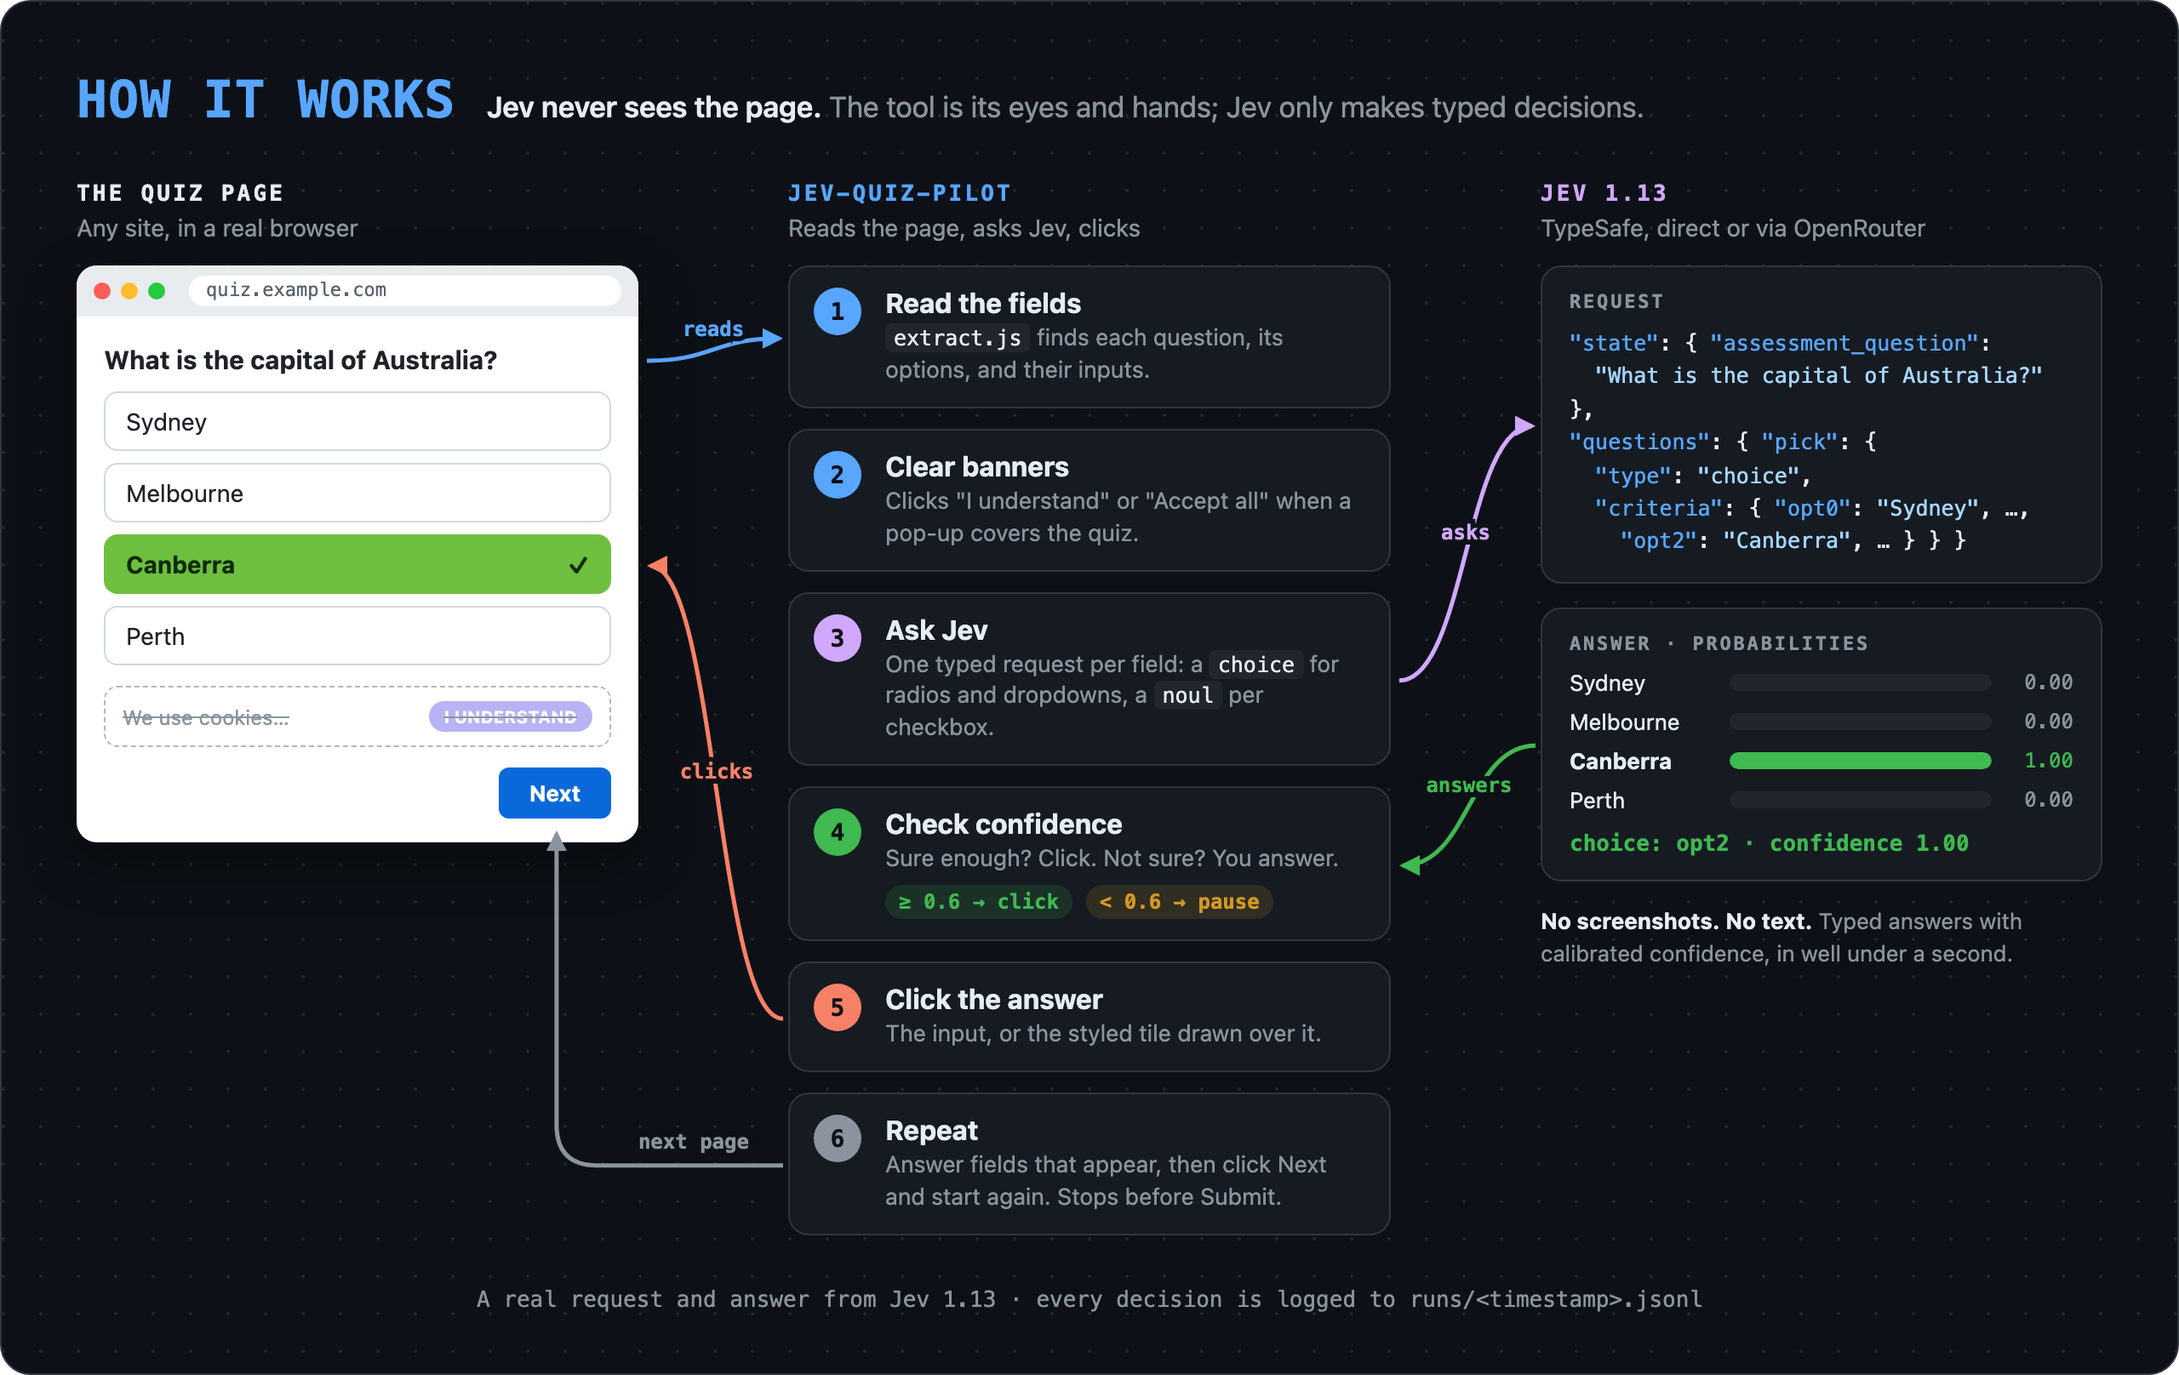
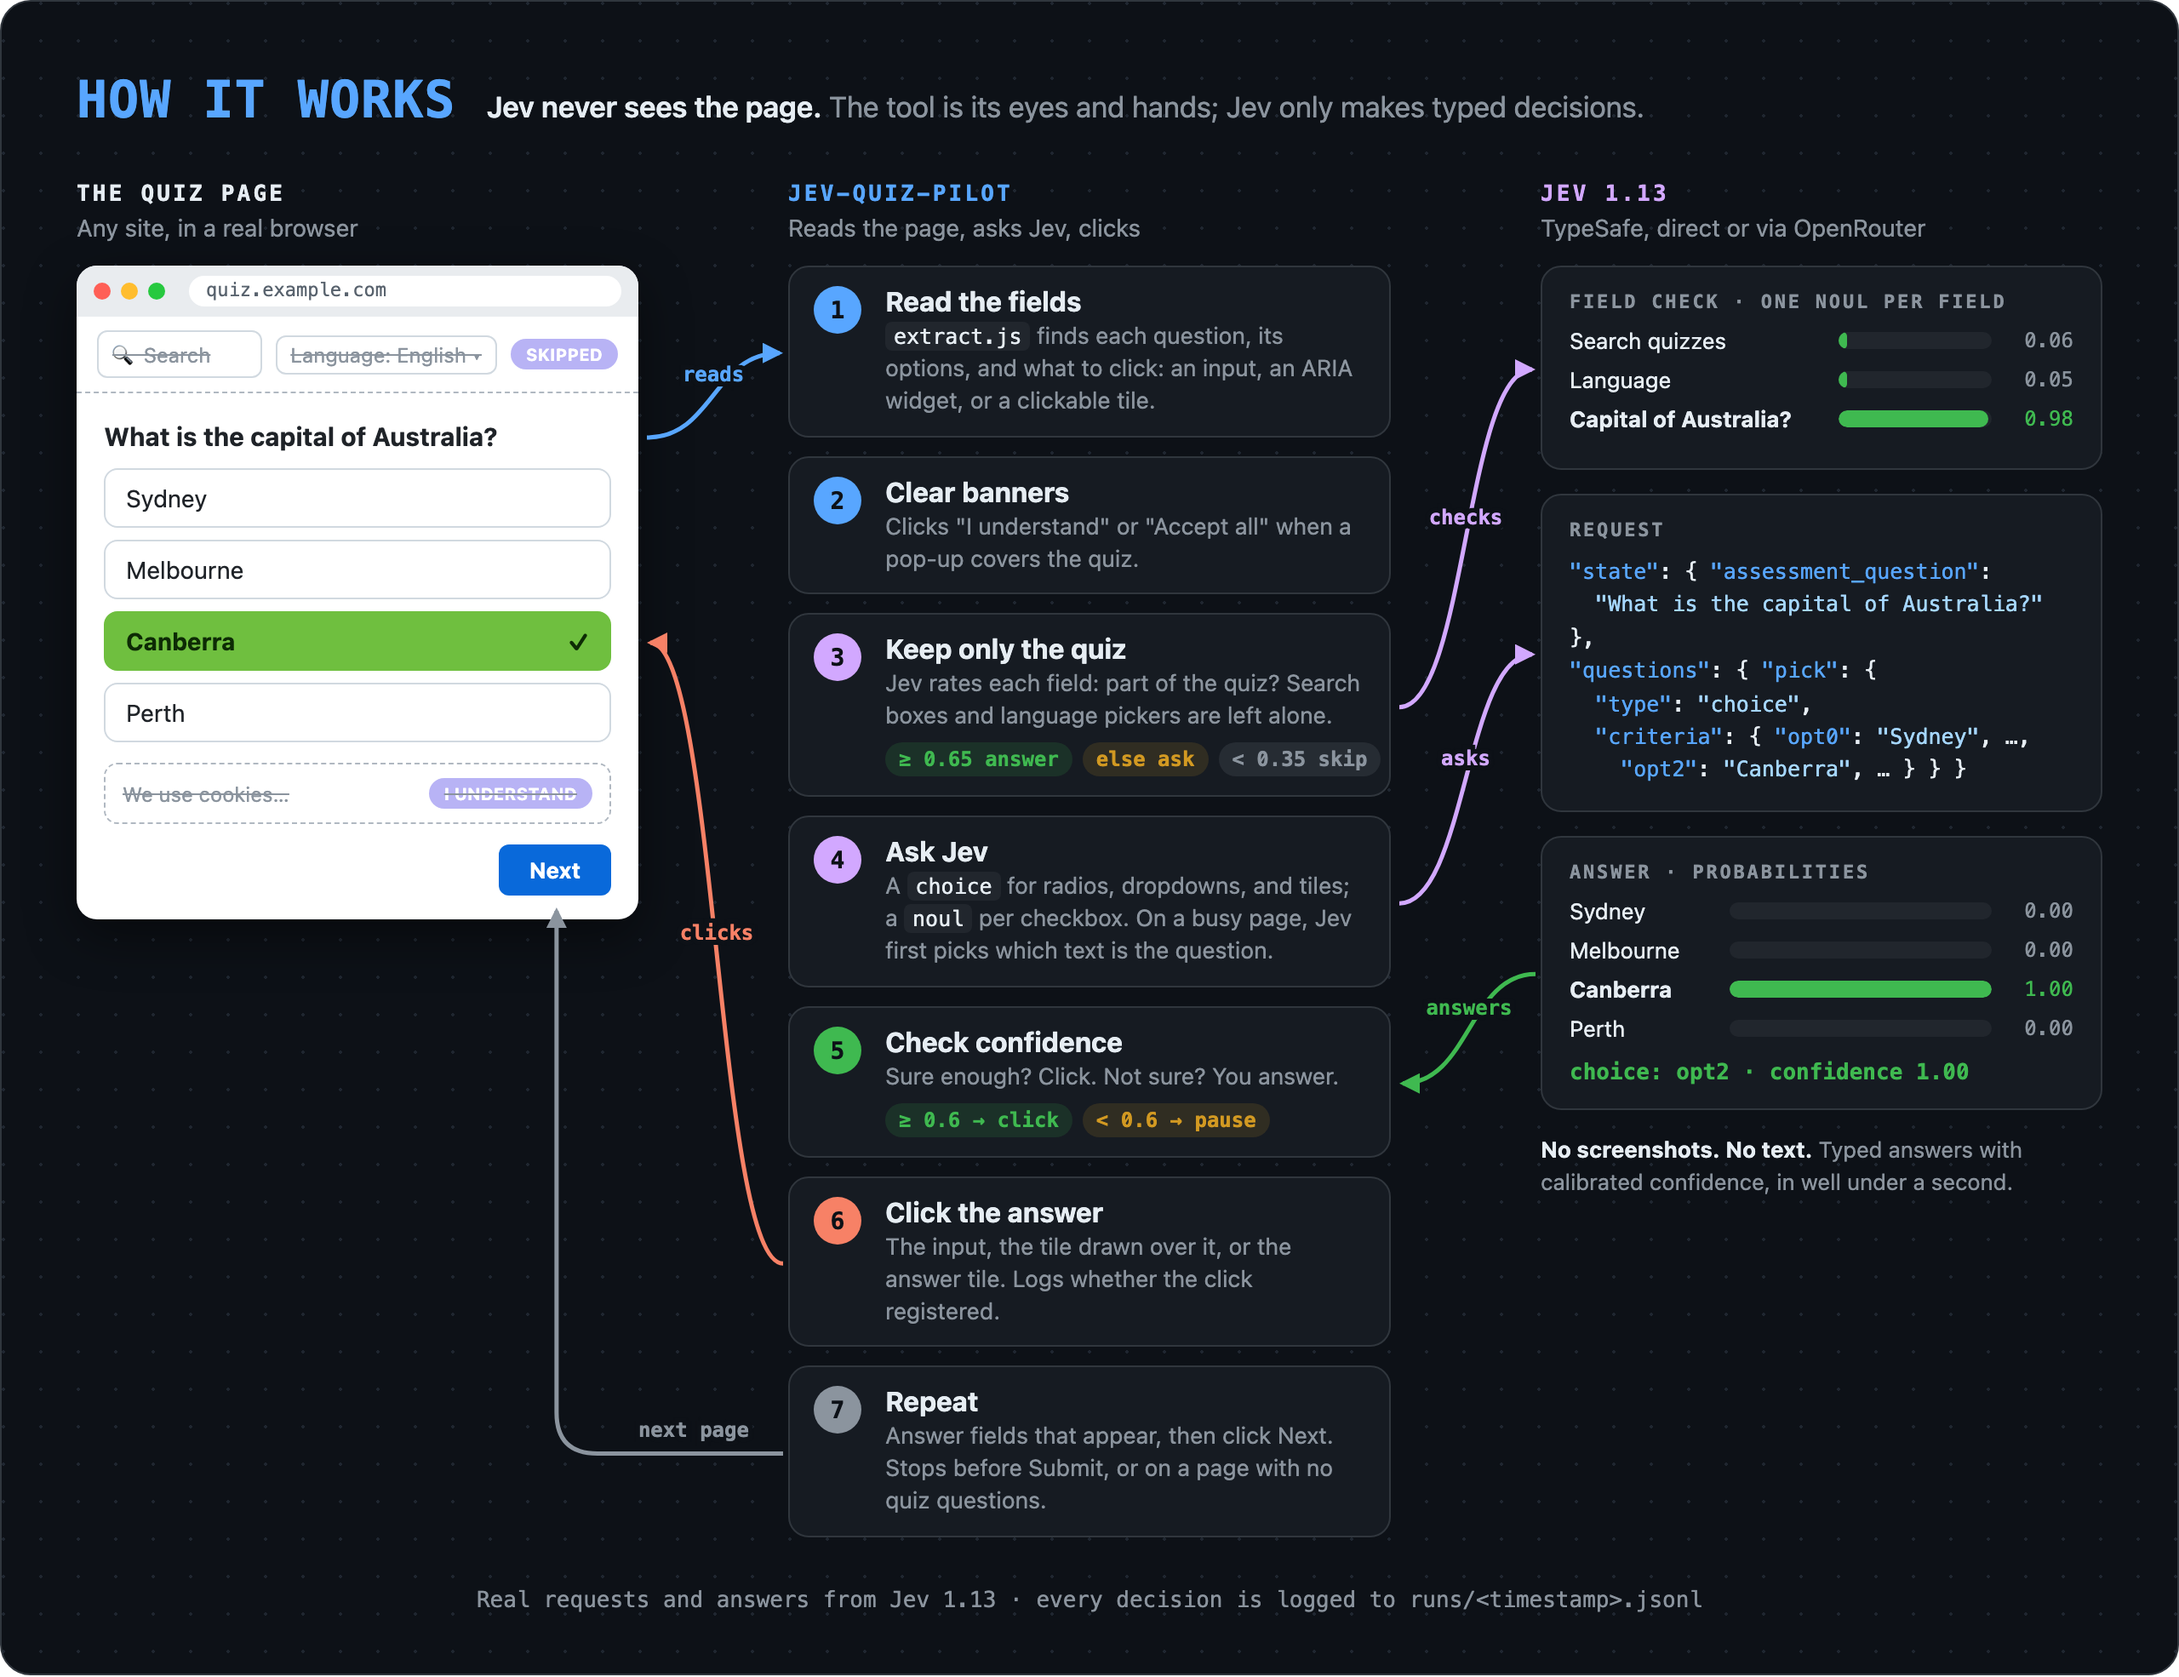
Show Jev's field check in the How it works diagram
Adds step 3, Keep only the quiz, with real scores from Jev 1.13: a site
search box 0.06, a language picker 0.05, the quiz question 0.98. Step 1
names ARIA widgets and answer tiles, step 6 the registered-click check,
and step 7 the stop on pages with no quiz questions.

diff --git a/docs/how-it-works.html b/docs/how-it-works.html
@@ -21,7 +21,7 @@
   header p { margin:0; color:var(--muted); font-size:17px; }
   header b { color:var(--text); font-weight:600; }
 
-  .cols { display:grid; grid-template-columns: 330px 1fr 330px; gap:88px; align-items:start; position:relative; z-index:1; }
+  .cols { display:grid; grid-template-columns: 330px minmax(0, 1fr) 330px; gap:88px; align-items:start; position:relative; z-index:1; }
   .col-title { font:700 13px var(--mono); letter-spacing:1.6px; text-transform:uppercase; margin:0 0 4px; }
   .col-sub { color:var(--muted); font-size:14px; margin:0 0 14px; }
 
@@ -36,20 +36,25 @@
   .opt.pick { background:#6fbf3f; border-color:#6fbf3f; color:#0d2b05; font-weight:700; }
   .banner { margin-top:12px; border:1px dashed #b0b8c1; border-radius:8px; padding:8px 10px; font-size:12px; color:#8b949e; display:flex; justify-content:space-between; align-items:center; text-decoration:line-through; }
   .banner span { background:#b8b3f5; color:#fff; border-radius:12px; padding:3px 9px; font-weight:700; font-size:10px; text-decoration:none; }
+  .sitebar { display:flex; gap:8px; align-items:center; padding:8px 12px; border-bottom:1px dashed #b0b8c1; font-size:12px; color:#8b949e; }
+  .sitebar .ctl { border:1px solid #d1d9e0; border-radius:6px; padding:3px 8px; text-decoration:line-through; white-space:nowrap; }
+  .sitebar .ctl:first-child { flex:1; }
+  .sitebar .skip { background:#b8b3f5; color:#fff; border-radius:12px; padding:3px 9px; font-weight:700; font-size:10px; }
   .next { margin-top:12px; display:flex; justify-content:flex-end; }
   .next span { background:#0969da; color:#fff; border-radius:6px; padding:7px 18px; font-weight:700; font-size:13px; }
 
   /* Tool steps */
   .steps { position:relative; }
-  .step { display:flex; gap:14px; align-items:flex-start; background:var(--panel); border:1px solid var(--line); border-radius:12px; padding:12px 14px; margin-bottom:12px; }
+  .step { display:flex; gap:14px; align-items:flex-start; background:var(--panel); border:1px solid var(--line); border-radius:12px; padding:11px 14px; margin-bottom:11px; }
   .num { flex:none; width:28px; height:28px; border-radius:50%; display:grid; place-items:center; font:700 14px var(--mono); color:var(--bg); }
   .step h3 { margin:0 0 2px; font-size:16px; }
   .step p { margin:0; color:var(--muted); font-size:13.5px; line-height:1.4; }
   .step code { font-family:var(--mono); font-size:12.5px; color:var(--text); background:#21262d; padding:1px 5px; border-radius:4px; }
-  .gate { display:flex; gap:8px; margin-top:6px; }
-  .gate span { font:600 12px var(--mono); padding:3px 8px; border-radius:10px; }
+  .gate { display:flex; gap:6px; margin-top:6px; }
+  .gate span { font:600 12px var(--mono); padding:3px 8px; border-radius:10px; white-space:nowrap; }
   .ok { color:var(--green); background:rgba(63,185,80,.14); }
   .warn { color:var(--amber); background:rgba(210,153,34,.14); }
+  .skip-g { color:var(--muted); background:rgba(139,148,158,.14); }
 
   /* Jev */
   .jev { background:var(--panel); border:1px solid var(--line); border-radius:12px; padding:14px 16px; }
@@ -62,6 +67,8 @@
   .bar .fill { height:100%; background:var(--green); border-radius:5px; }
   .bar .v { font:12px var(--mono); color:var(--muted); text-align:right; }
   .bar.win { color:var(--text); font-weight:700; } .bar.win .v { color:var(--green); }
+  .fc .bar { grid-template-columns:150px 1fr 40px; }
+  .fc .bar.no .v { color:var(--muted); }
   .conf { margin-top:10px; font:600 13px var(--mono); color:var(--green); }
   .never { margin-top:14px; color:var(--muted); font-size:13px; line-height:1.5; }
   .never b { color:var(--text); }
@@ -86,6 +93,7 @@
       <div class="col-sub">Any site, in a real browser</div>
       <div class="browser" id="page">
         <div class="chrome"><i style="background:#ff5f56"></i><i style="background:#ffbd2e"></i><i style="background:#27c93f"></i><div class="url">quiz.example.com</div></div>
+        <div class="sitebar" id="site"><span class="ctl">🔍 Search</span><span class="ctl">Language: English ▾</span><span class="skip">SKIPPED</span></div>
         <div class="page">
           <div class="q" id="question">What is the capital of Australia?</div>
           <div class="opt">Sydney</div>
@@ -103,12 +111,13 @@
       <div class="col-title" style="color:var(--blue)">jev-quiz-pilot</div>
       <div class="col-sub">Reads the page, asks Jev, clicks</div>
       <div class="steps">
-        <div class="step" id="s1"><div class="num" style="background:var(--blue)">1</div><div><h3>Read the fields</h3><p><code>extract.js</code> finds each question, its options, and their inputs.</p></div></div>
+        <div class="step" id="s1"><div class="num" style="background:var(--blue)">1</div><div><h3>Read the fields</h3><p><code>extract.js</code> finds each question, its options, and what to click: an input, an ARIA widget, or a clickable tile.</p></div></div>
         <div class="step" id="s2"><div class="num" style="background:var(--blue)">2</div><div><h3>Clear banners</h3><p>Clicks "I understand" or "Accept all" when a pop-up covers the quiz.</p></div></div>
-        <div class="step" id="s3"><div class="num" style="background:var(--purple)">3</div><div><h3>Ask Jev</h3><p>One typed request per field: a <code>choice</code> for radios and dropdowns, a <code>noul</code> per checkbox.</p></div></div>
-        <div class="step" id="s4"><div class="num" style="background:var(--green)">4</div><div><h3>Check confidence</h3><p>Sure enough? Click. Not sure? You answer.</p><div class="gate"><span class="ok">≥ 0.6 → click</span><span class="warn">&lt; 0.6 → pause</span></div></div></div>
-        <div class="step" id="s5"><div class="num" style="background:var(--coral)">5</div><div><h3>Click the answer</h3><p>The input, or the styled tile drawn over it.</p></div></div>
-        <div class="step" id="s6"><div class="num" style="background:var(--muted)">6</div><div><h3>Repeat</h3><p>Answer fields that appear, then click Next and start again. Stops before Submit.</p></div></div>
+        <div class="step" id="s3"><div class="num" style="background:var(--purple)">3</div><div style="min-width:0"><h3>Keep only the quiz</h3><p>Jev rates each field: part of the quiz? Search boxes and language pickers are left alone.</p><div class="gate"><span class="ok">≥ 0.65 answer</span><span class="warn">else ask</span><span class="skip-g">&lt; 0.35 skip</span></div></div></div>
+        <div class="step" id="s4"><div class="num" style="background:var(--purple)">4</div><div><h3>Ask Jev</h3><p>A <code>choice</code> for radios, dropdowns, and tiles; a <code>noul</code> per checkbox. On a busy page, Jev first picks which text is the question.</p></div></div>
+        <div class="step" id="s5"><div class="num" style="background:var(--green)">5</div><div><h3>Check confidence</h3><p>Sure enough? Click. Not sure? You answer.</p><div class="gate"><span class="ok">≥ 0.6 → click</span><span class="warn">&lt; 0.6 → pause</span></div></div></div>
+        <div class="step" id="s6"><div class="num" style="background:var(--coral)">6</div><div><h3>Click the answer</h3><p>The input, the tile drawn over it, or the answer tile. Logs whether the click registered.</p></div></div>
+        <div class="step" id="s7"><div class="num" style="background:var(--muted)">7</div><div><h3>Repeat</h3><p>Answer fields that appear, then click Next. Stops before Submit, or on a page with no quiz questions.</p></div></div>
       </div>
     </div>
 
@@ -116,6 +125,12 @@
     <div>
       <div class="col-title" style="color:var(--purple)">Jev 1.13</div>
       <div class="col-sub">TypeSafe, direct or via OpenRouter</div>
+      <div class="jev fc" id="fc">
+        <div class="label">Field check · one noul per field</div>
+        <div class="bar no"><span>Search quizzes</span><div class="track"><div class="fill" style="width:6%"></div></div><span class="v">0.06</span></div>
+        <div class="bar no"><span>Language</span><div class="track"><div class="fill" style="width:5%"></div></div><span class="v">0.05</span></div>
+        <div class="bar win"><span>Capital of Australia?</span><div class="track"><div class="fill" style="width:98%"></div></div><span class="v">0.98</span></div>
+      </div>
       <div class="jev" id="req">
         <div class="label">Request</div>
 <pre><span class="k">"state"</span>: { <span class="k">"assessment_question"</span>:
@@ -138,7 +153,7 @@
   </div>
 
   <svg id="arrows"></svg>
-  <footer>A real request and answer from Jev 1.13 · every decision is logged to runs/&lt;timestamp&gt;.jsonl</footer>
+  <footer>Real requests and answers from Jev 1.13 · every decision is logged to runs/&lt;timestamp&gt;.jsonl</footer>
 </div>
 
 <script>
@@ -157,18 +172,19 @@
     arrows.push(`<path d="M${x1},${y1} C${mx},${y1} ${mx},${y2} ${x2},${y2}" stroke="${color}" stroke-width="2.5" fill="none" marker-end="url(#${id})"/>`
       + `<text class="tag" x="${mx}" y="${my - 8}" text-anchor="middle" fill="${color}">${label}</text>`);
   }
-  const page = box('question'), picked = box('picked'), s1 = box('s1'), s3 = box('s3'), s4 = box('s4'), s5 = box('s5'), s6 = box('s6');
-  const req = box('req'), ans = box('ans'), banner = box('banner');
+  const page = box('question'), picked = box('picked'), s1 = box('s1'), s3 = box('s3'), s4 = box('s4'), s5 = box('s5'), s6 = box('s6'), s7 = box('s7');
+  const fc = box('fc'), req = box('req'), ans = box('ans');
   const pageR = box('page').r;
   arrow(pageR + 4, page.cy, s1.l - 6, s1.cy, css('--blue'), 'reads');
-  arrow(s3.r + 4, s3.cy, req.l - 6, req.cy, css('--purple'), 'asks');
-  arrow(ans.l - 4, ans.cy, s4.r + 6, s4.cy, css('--green'), 'answers');
-  arrow(s5.l - 4, s5.cy, pageR + 6, picked.cy, css('--coral'), 'clicks');
-  // Next page: left from step 6, then up into the bottom of the Next button, clear of the "clicks" arrow.
+  arrow(s3.r + 4, s3.cy, fc.l - 6, fc.cy, css('--purple'), 'checks');
+  arrow(s4.r + 4, s4.cy, req.l - 6, req.cy, css('--purple'), 'asks');
+  arrow(ans.l - 4, ans.cy, s5.r + 6, s5.cy, css('--green'), 'answers');
+  arrow(s6.l - 4, s6.cy, pageR + 6, picked.cy, css('--coral'), 'clicks');
+  // Next page: left from step 7, then up into the bottom of the Next button, clear of the "clicks" arrow.
   const nx = box('next'), nxc = (nx.l + nx.r) / 2, grey = css('--muted');
   defs += `<marker id="hn" markerUnits="userSpaceOnUse" markerWidth="12" markerHeight="12" refX="10" refY="6" orient="auto"><path d="M0,0 L12,6 L0,12 z" fill="${grey}"/></marker>`;
-  arrows.push(`<path d="M${s6.l - 4},${s6.cy} H${nxc + 24} Q${nxc},${s6.cy} ${nxc},${s6.cy - 24} V${nx.b + 8}" stroke="${grey}" stroke-width="2.5" fill="none" marker-end="url(#hn)"/>`
-    + `<text class="tag" x="${(s6.l + nxc) / 2 + 12}" y="${s6.cy - 10}" text-anchor="middle" fill="${grey}">next page</text>`);
+  arrows.push(`<path d="M${s7.l - 4},${s7.cy} H${nxc + 24} Q${nxc},${s7.cy} ${nxc},${s7.cy - 24} V${nx.b + 8}" stroke="${grey}" stroke-width="2.5" fill="none" marker-end="url(#hn)"/>`
+    + `<text class="tag" x="${(s7.l + nxc) / 2 + 12}" y="${s7.cy - 10}" text-anchor="middle" fill="${grey}">next page</text>`);
   svg.innerHTML = defs + '</defs>' + arrows.join('');
 </script>
 </body>

diff --git a/README.md b/README.md
@@ -134,7 +134,7 @@ uv run jev-quiz-pilot --cdp-url http://localhost:9222
 ## How it works
 
 <p align="center">
-  <img src="docs/how-it-works.png" alt="Diagram in three columns. Left: a quiz page asking the capital of Australia, with Canberra selected, a dismissed cookie banner, and a Next button. Middle: jev-quiz-pilot's six steps: read the fields, clear banners, ask Jev, check confidence (0.6 or more clicks, less pauses), click the answer, repeat on the next page. Right: Jev 1.13 receives the question as a typed choice request and answers opt2, Canberra, with probability 1.00. Arrows: the tool reads the page, asks Jev, gets the answer, and clicks." width="900">
+  <img src="docs/how-it-works.png" alt="Diagram in three columns. Left: a quiz page asking the capital of Australia, with Canberra selected, a site search box and language picker marked skipped, a dismissed cookie banner, and a Next button. Middle: jev-quiz-pilot's seven steps: read the fields, clear banners, keep only the quiz (0.65 or more answers, below 0.35 skips, else asks you), ask Jev, check confidence (0.6 or more clicks, less pauses), click the answer, repeat on the next page. Right: Jev 1.13 rates each field as part of the quiz (search 0.06, language 0.05, the question 0.98), then receives the question as a typed choice request and answers opt2, Canberra, with probability 1.00. Arrows: the tool reads the page, checks fields with Jev, asks Jev, gets the answer, and clicks." width="900">
 </p>
 
 Jev never sees the page. It doesn't read screenshots or write text; it only makes typed decisions. The tool is Jev's eyes and hands: it reads each question from the page, asks Jev to pick, and clicks the answer.
